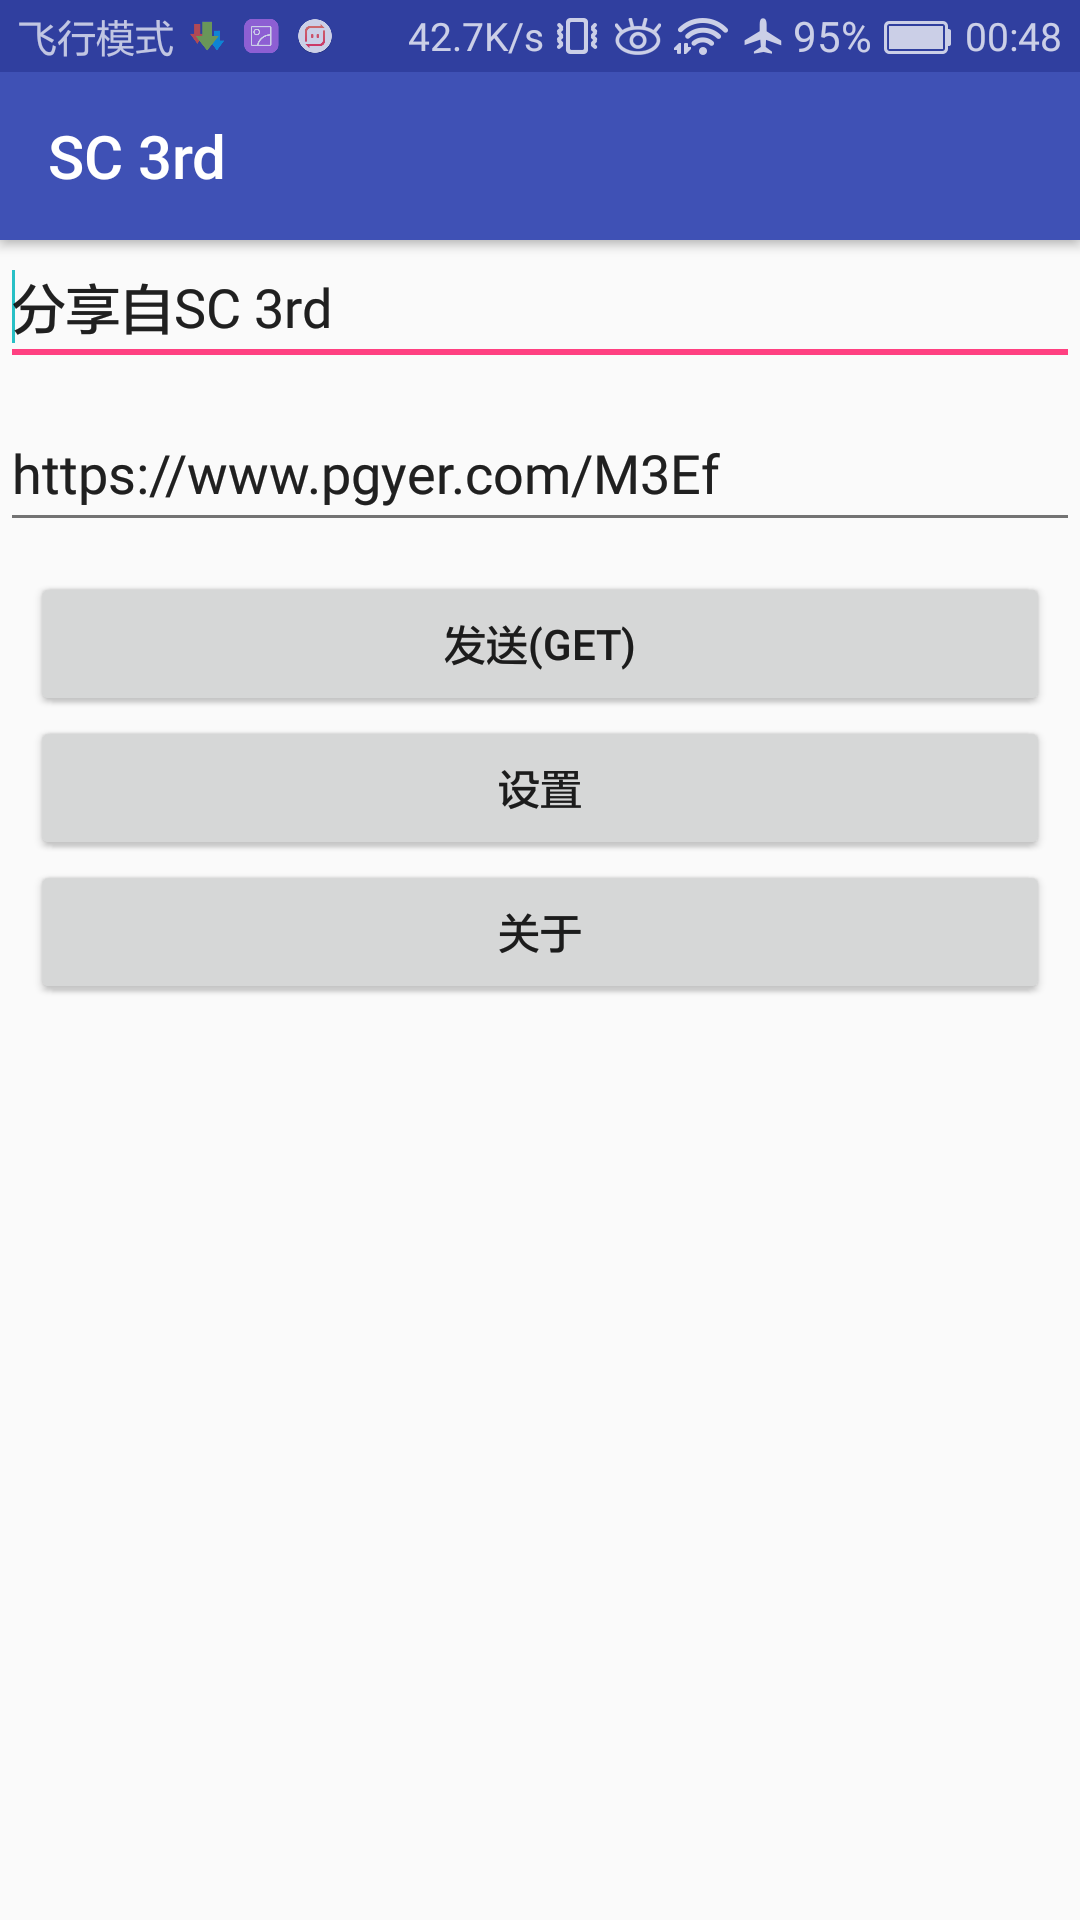
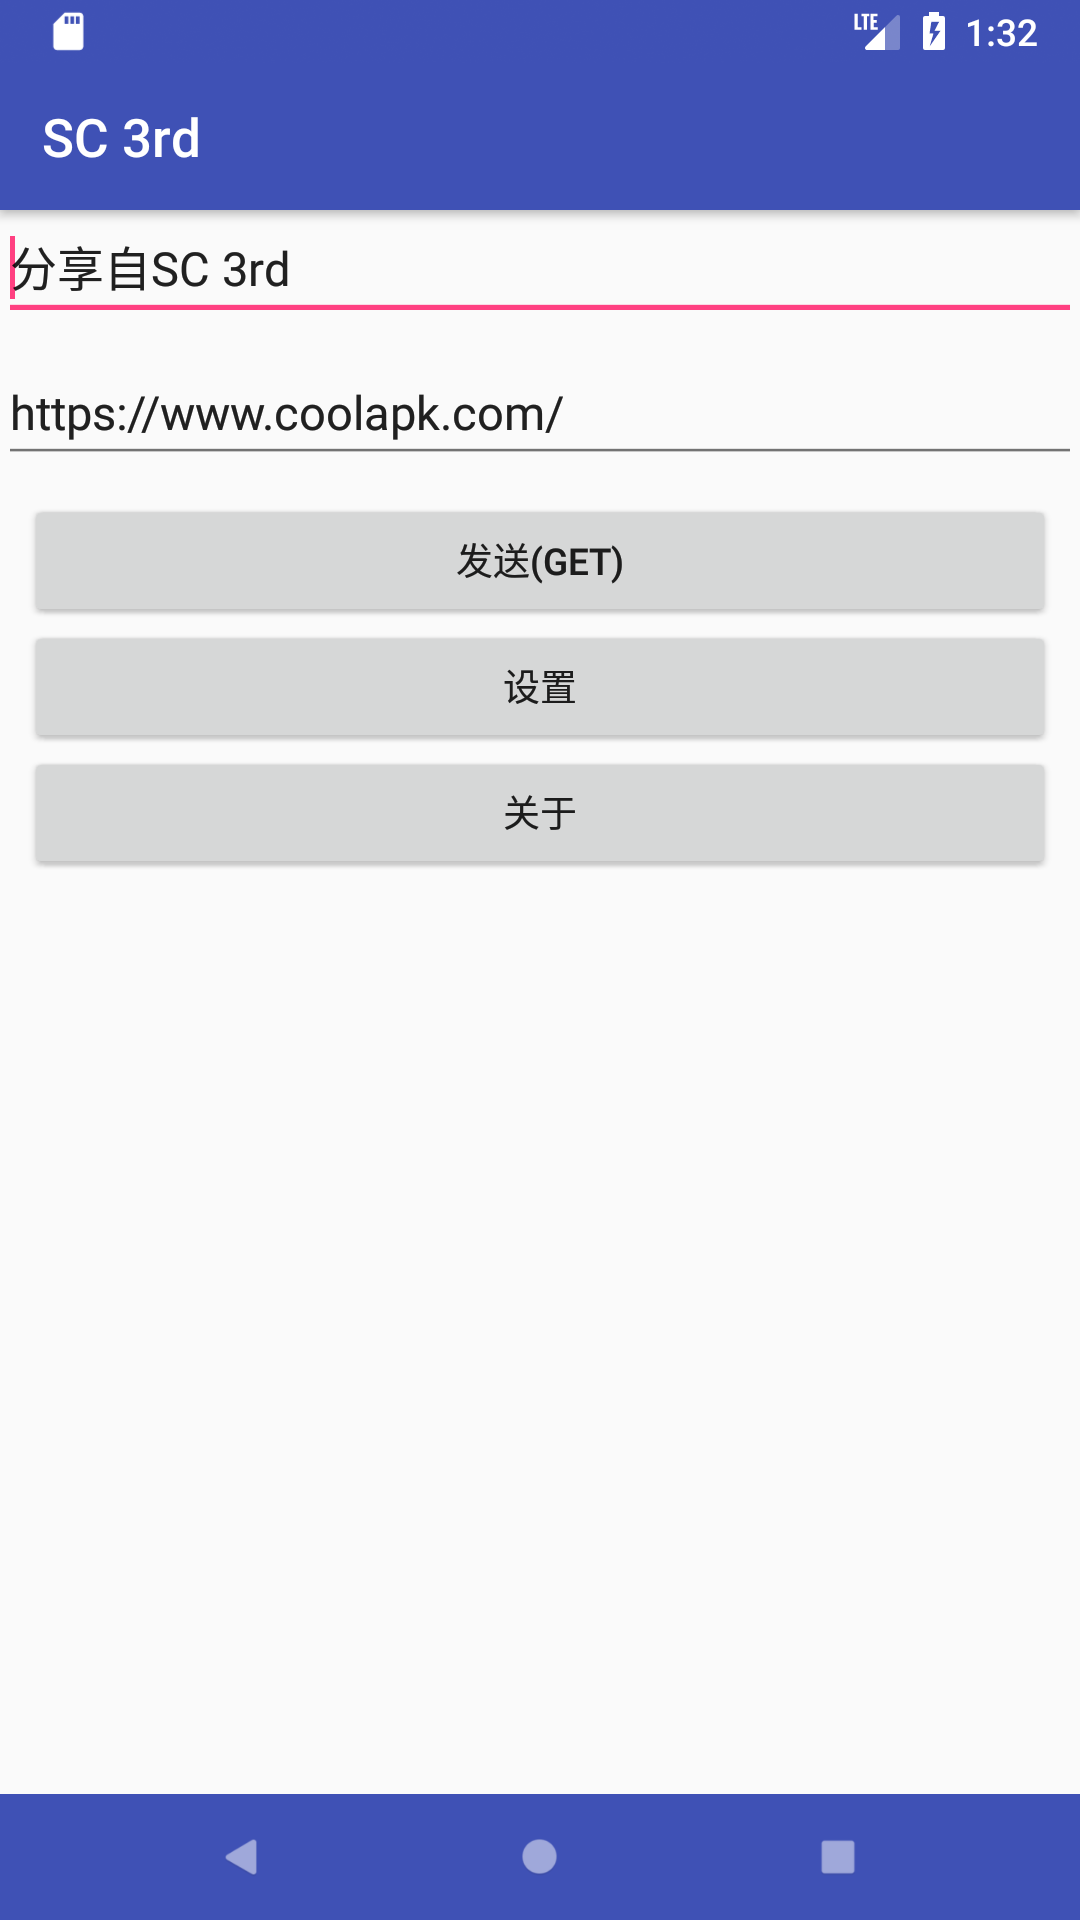
Update to v0.0.6

diff --git a/app/src/main/java/com/zhihaofans/server_chan_3rd_party/view/StartActivity.kt b/app/src/main/java/com/zhihaofans/server_chan_3rd_party/view/StartActivity.kt
@@ -4,6 +4,7 @@ import android.annotation.SuppressLint
 import android.os.Bundle
 import android.support.v7.app.AppCompatActivity
 import android.text.InputType
+import com.orhanobut.logger.Logger
 import com.zhihaofans.server_chan_3rd_party.R
 import com.zhihaofans.server_chan_3rd_party.util.ServerChanUtil
 import com.zhihaofans.server_chan_3rd_party.util.SettingUtil
@@ -11,7 +12,7 @@ import kotlinx.android.synthetic.main.activity_start.*
 import org.jetbrains.anko.*
 import org.jetbrains.anko.sdk25.coroutines.onClick
 
-class StartActivity : AppCompatActivity(), AnkoLogger {
+class StartActivity : AppCompatActivity() {
     private val serverChan = ServerChanUtil()
     private val set = SettingUtil()
     private var sendByPost = false
@@ -90,7 +91,7 @@ class StartActivity : AppCompatActivity(), AnkoLogger {
                             serverChan.get(et_title.text.toString(), et_text.text.toString())
                         }
                         uiThread {
-                            debug(re)
+                            Logger.d(re)
                             loading.hide()
                             val errStr = serverChan.getError(re)
                             alert(errStr, getString(R.string.text_finish)) { yesButton { } }.show()
@@ -134,7 +135,7 @@ class StartActivity : AppCompatActivity(), AnkoLogger {
                 et_title.setText(getString(R.string.text_shareFrom) + getString(R.string.app_name))
                 et_text.setText(shareText)
                 if (autoSend) {
-                    b_send.callOnClick()
+
                 }
             }
         } catch (e: Error) {
@@ -180,4 +181,3 @@ class StartActivity : AppCompatActivity(), AnkoLogger {
         System.exit(0)
     }
 }
-

diff --git a/app/src/main/java/com/zhihaofans/server_chan_3rd_party/action/BrowserActivity.kt b/app/src/main/java/com/zhihaofans/server_chan_3rd_party/action/BrowserActivity.kt
@@ -1,0 +1,44 @@
+package com.zhihaofans.server_chan_3rd_party.action
+
+import android.app.Activity
+import android.content.Intent
+import android.os.Bundle
+import com.zhihaofans.server_chan_3rd_party.view.StartActivity
+import java.util.*
+import android.util.Log
+import org.jetbrains.anko.startActivity
+
+
+/**
+ * Created by zhihaofans on 2017/10/30.
+ */
+class BrowserActivity : Activity() {
+    override fun onCreate(savedInstanceState: Bundle?) {
+        super.onCreate(savedInstanceState)
+        val TAG = "BrowserActivity"
+        val uri = intent.data
+        if (uri != null) {
+            // 完整的url信息
+            val url = uri.toString()
+            Log.d(TAG, "url: " + uri)
+            // scheme部分
+            val scheme = uri.scheme
+            Log.d(TAG, "scheme: " + scheme)
+            // host部分
+            val host = uri.host
+            Log.d(TAG, "host: " + host)
+            //port部分
+            val port = uri.port
+            Log.d(TAG, "host: " + port)
+            // 访问路劲
+            val path = uri.path
+            Log.d(TAG, "path: " + path)
+            // Query部分
+            val query = uri.query
+            Log.d(TAG, "query: " + query)
+            startActivity<StartActivity>("shareText" to url)
+        } else {
+            finish()
+        }
+    }
+}

diff --git a/app/src/main/java/com/zhihaofans/server_chan_3rd_party/view/AboutActivity.kt b/app/src/main/java/com/zhihaofans/server_chan_3rd_party/view/AboutActivity.kt
@@ -5,12 +5,13 @@ import android.support.v7.app.AppCompatActivity
 import android.view.MenuItem
 import android.widget.AdapterView
 import android.widget.ArrayAdapter
+import com.orhanobut.logger.Logger
 import com.zhihaofans.server_chan_3rd_party.R
 import kotlinx.android.synthetic.main.activity_about.*
 import kotlinx.android.synthetic.main.content_about.*
 import org.jetbrains.anko.*
 
-class AboutActivity : AppCompatActivity(), AnkoLogger {
+class AboutActivity : AppCompatActivity() {
 
     override fun onCreate(savedInstanceState: Bundle?) {
         super.onCreate(savedInstanceState)
@@ -21,7 +22,7 @@ class AboutActivity : AppCompatActivity(), AnkoLogger {
         lv_about.adapter = ArrayAdapter(this, android.R.layout.simple_list_item_1, android.R.id.text1, items)
         lv_about.onItemClickListener = AdapterView.OnItemClickListener { _, _, position, _ ->
             val itemValue: String = lv_about.getItemAtPosition(position) as String
-            debug("选择了$itemValue($position)")
+            Logger.d("选择了$itemValue($position)")
             when (position) {
                 0 -> alert(getString(R.string.text_aboutThisApp), getString(R.string.text_about) + getString(R.string.text_thisApp)) { yesButton {} }.show()
                 1 -> browse("https://sc.ftqq.com/3.version")

diff --git a/app/src/main/java/com/zhihaofans/server_chan_3rd_party/MainActivity.kt b/app/src/main/java/com/zhihaofans/server_chan_3rd_party/MainActivity.kt
@@ -3,14 +3,16 @@ package com.zhihaofans.server_chan_3rd_party
 import android.os.Bundle
 import android.support.v7.app.AppCompatActivity
 import com.zhihaofans.server_chan_3rd_party.view.StartActivity
-import org.jetbrains.anko.AnkoLogger
-import org.jetbrains.anko.debug
 import org.jetbrains.anko.startActivity
+import com.orhanobut.logger.AndroidLogAdapter
+import com.orhanobut.logger.Logger
 
-class MainActivity : AppCompatActivity(), AnkoLogger {
+
+class MainActivity : AppCompatActivity() {
     override fun onCreate(savedInstanceState: Bundle?) {
         super.onCreate(savedInstanceState)
-        debug("Start from MainActivity")
+        Logger.addLogAdapter(AndroidLogAdapter())
+        Logger.d("Start from MainActivity")
         startActivity<StartActivity>("shareText" to "")
     }
 }

diff --git a/app/src/main/java/com/zhihaofans/server_chan_3rd_party/action/ShareActivity.kt b/app/src/main/java/com/zhihaofans/server_chan_3rd_party/action/ShareActivity.kt
@@ -18,6 +18,8 @@ class ShareActivity : Activity() {
         if (Objects.equals(Intent.ACTION_SEND, intent.action) && intent.type != null && Objects.equals("text/plain", intent.type)) {
             val st = intent.getStringExtra(Intent.EXTRA_TEXT)
             startActivity<StartActivity>("shareText" to st)
+        } else {
+            finish()
         }
     }
 }

diff --git a/CHANGELOG.md b/CHANGELOG.md
@@ -1,10 +1,18 @@
 # 更新日志
 
+## v0.0.6 (2017/11/28)
+
+- 新增 `打开网址分享` 功能
+
+- 更新状态栏与虚拟按键栏的颜色
+
+- 更新图标
+
 ## v0.1-Alpha5
 
 ### 新增
 
-- App Shortcuts
+- App Shortcuts(未完成)
 
 ## v0.1-Alpha4
 
@@ -40,4 +48,4 @@
 
 ## v0.1-Alpha1
 
-初始版本
+- 初始版本

diff --git a/TODO.md b/TODO.md
@@ -1,4 +1,5 @@
 ## TODO
+- ~~打开网址分享~~
 - ~~分享自本应用，然后发送。~~
 - 使用上面那个功能时跳过确认(提前在设置里设置好)
 - 图床功能
